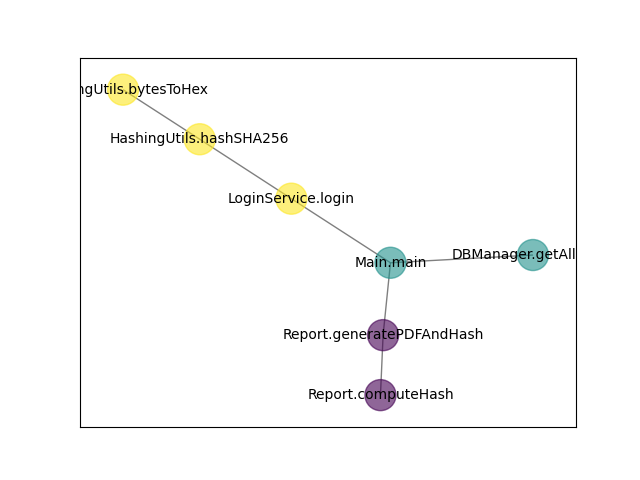
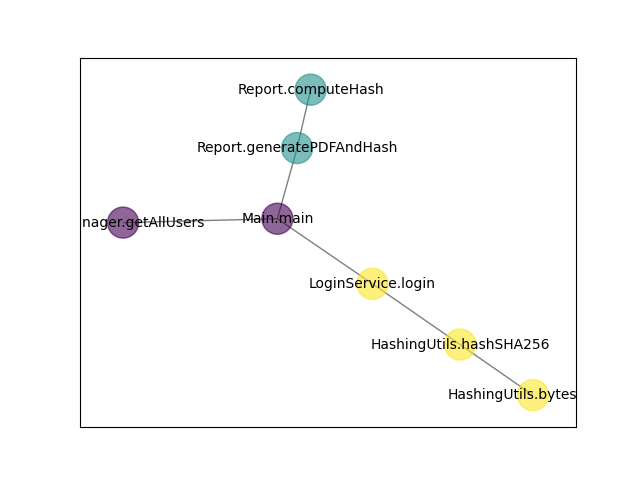
finished product (summaries done), tested on vulnerableapp/

diff --git a/main.py b/main.py
@@ -12,10 +12,11 @@ import networkx as nx
 import tests
 
 from parsing.objects import JavaFile
-from parsing.parsing import extract_classes_and_methods
+from parsing.parsing import extract_classes_and_methods, is_position_within_method
 from clustering.algorithms import FanOutLouvainClustering, ACERLouvainClustering
 from clustering.clustering import convert_clusters_to_partition
 from clustering.majority import create_cluster_matrix, decode_clusterings
+from summarizing.summarizing import summarize_code, summarize_cluster
 
 from utils import encode_java_files_to_json, print_clusters, visualize_community_graph
            
@@ -43,13 +44,13 @@ def exec_pipeline(args):
     print(f"[{dt.now().strftime('%T.%f')[:-3]}] Scanning for vulnerabilities...")
     scan_result = scan(args.dir)
     
-    with open("output_scan.json", "w") as f:
+    with open("out/mobsf_scan.json", "w") as f:
         f.write(json.dumps(scan_result))
         
     print(f"[{dt.now().strftime('%H:%M:%S.%f')[:-3]}] Done.")
     
-    # 2)
-    print(f"[{dt.now().strftime('%H:%M:%S.%f')[:-3]}] Parsing Java files..")
+    # 2a)
+    print(f"[{dt.now().strftime('%H:%M:%S.%f')[:-3]}] Parsing Java files...")
     file_objects = []
     for file in os.listdir(args.dir): # only scans the base directory
         full_path = os.path.join(args.dir, file)
@@ -60,15 +61,40 @@ def exec_pipeline(args):
             
             current_classes = extract_classes_and_methods(java_code)
     
-            file_objects.append(JavaFile(full_path, java_code, current_classes))
+            jfile = JavaFile(full_path, java_code, current_classes)
+            for java_class in current_classes:
+                java_class.parent_file = jfile
+            file_objects.append(jfile)
     
-    with open("output_objects.json", "w") as f:
+    with open("out/parsed_objects.json", "w") as f:
         f.write(encode_java_files_to_json(file_objects))
         
+    # 2b) Flag vulnerable methods
+    vulnerable_methods = []
+    
+    for file in file_objects:
+        for vul_title, vulnerability in scan_result["results"].items():
+            if vulnerability.get("files") is not None:
+                for vulnerable_file in vulnerability["files"]:
+                    
+                    if file.path == vulnerable_file["file_path"]:
+        
+                        for java_class in file.classes:
+                            for method in java_class.methods:
+                                if is_position_within_method(vulnerable_file["match_position"], vulnerable_file["match_lines"], method.position):
+                                    method.is_vulnerable = True
+                                    method.vulnerability = vul_title
+                                    method.vulnerability_metadata = vulnerability.get("metadata")
+                                    method.match_string = vulnerable_file["match_string"]
+                                    
+                                    vulnerable_file["method"] = method # Indexing the method for later use (will be removed before saving the file)
+                                    
+                                    vulnerable_methods.append(method)
+    
     print(f"[{dt.now().strftime('%H:%M:%S.%f')[:-3]}] Done.")
     
     # 3)
-    print(f"[{dt.now().strftime('%H:%M:%S.%f')[:-3]}] Clustering Java files..")
+    print(f"[{dt.now().strftime('%H:%M:%S.%f')[:-3]}] Clustering Java methods...")
     # cluster_fan_out = cluster(file_objects)
     # cluster_fan_out = {k: v for k, v in sorted(cluster_fan_out.items(), key=lambda item: item[1])}
     fan_out = FanOutLouvainClustering()
@@ -87,6 +113,9 @@ def exec_pipeline(args):
     # 4)
     # TODO Check for case if only one algo is registered, do not combine
     # TODO let the option to choose which algo to use for the consensus
+    # Don't forget to assign parent_cluster to each method if only one clustering approach is used.
+    # If consensus is used it is assigning in the decode_clusterings method.
+    print(f"[{dt.now().strftime('%H:%M:%S.%f')[:-3]}] Combining clustering results...")
 
     all_methods = list(fan_out.get_unique_methods().intersection(acer_louvain.get_unique_methods()))        
     
@@ -96,10 +125,10 @@ def exec_pipeline(args):
 
     decoded_clusters = decode_clusterings(pi_star, all_methods)
 
-    for cluster in decoded_clusters:
-        print(f"Cluster with {len(cluster.get_elements())} methods.")
-        for method in cluster.get_elements():
-            print(method)
+    # for cluster in decoded_clusters:
+    #     print(f"Cluster with {len(cluster.get_elements())} methods.")
+    #     for method in cluster.get_elements():
+    #         print(method)
     
     # Visualize the consensus graph
     G = nx.Graph()
@@ -107,10 +136,73 @@ def exec_pipeline(args):
         G.add_node(all_method)
     visualize_community_graph(G, convert_clusters_to_partition(decoded_clusters), "out/consensus_graph.png")
     
+    print(f"[{dt.now().strftime('%H:%M:%S.%f')[:-3]}] Done.")
+    
     # 5)
+    
+    print(f"[{dt.now().strftime('%H:%M:%S.%f')[:-3]}] Summarizing vulnerable methods...")
     openai_client = OpenAI(api_key=args.api_key)
     
+    for vulnerable_method in vulnerable_methods: 
+        vulnerable_method.summary = summarize_code(vulnerable_method.code, openai_client)
+        
+        if vulnerable_method.parent.summary == "":
+            vulnerable_method.parent.summary = summarize_code(vulnerable_method.parent.code, openai_client)
+        
+        if vulnerable_method.parent_cluster.summary == "":
+            vulnerable_method.parent_cluster.summary = summarize_cluster(vulnerable_method.parent_cluster, openai_client)
     
+    print(f"[{dt.now().strftime('%H:%M:%S.%f')[:-3]}] Done.")
+    
+    # 6) 
+    # Add the results to the MobSF scan result 
+    for vul_title, vulnerability in scan_result["results"].items():
+        if vulnerability.get("files") is not None:
+            for vulnerable_file in vulnerability["files"]:
+                if "method" in vulnerable_file:
+                    
+                    vulnerable_file["summaries"] = {}
+                    vulnerable_file["summaries"]["method"] = vulnerable_file["method"].summary
+                    vulnerable_file["summaries"]["class"] = vulnerable_file["method"].parent.summary
+                    vulnerable_file["summaries"]["cluster"] = vulnerable_file["method"].parent_cluster.summary
+                    
+                    del vulnerable_file["method"]
+                    
+    with open("out/mobsf_scan_with_summaries.json", "w") as f:
+        f.write(json.dumps(scan_result))
+    
+    results = []
+    print("===== Result =====")
+    print()
+    for vulnerable_method in vulnerable_methods:
+        
+        current_result = {
+            "file": vulnerable_method.parent.parent_file.path,
+            "line": vulnerable_method.position.start_line,
+            "method": f"{vulnerable_method.parent.name}.{vulnerable_method.name}",
+            "vulnerability": vulnerable_method.vulnerability,
+            "match": vulnerable_method.match_string,
+            "summaries": {
+                "method": vulnerable_method.summary,
+                "class": vulnerable_method.parent.summary,
+                "cluster": vulnerable_method.parent_cluster.summary
+            }
+        }
+        
+        results.append(current_result)
+        
+        print(f"Method: {vulnerable_method.parent.name}.{vulnerable_method.name}")
+        print(f"Vulnerability: {vulnerable_method.vulnerability}")
+        print(f"Match: {vulnerable_method.match_string}")
+        
+        print("Summary")
+        print(f"  Method: {vulnerable_method.summary}")
+        print(f"  Class: {vulnerable_method.parent.summary}")
+        print(f"  Cluster: {vulnerable_method.parent_cluster.summary}")
+        print()
+        
+    with open("out/results.json", "w") as f:
+        f.write(json.dumps({"results": results}))
     
 
 if __name__ == '__main__':

diff --git a/summarizing/summarizing.py b/summarizing/summarizing.py
@@ -30,7 +30,25 @@ def summarize_code(code: str, openai_client, model="gpt-3.5-turbo"):
     This function uses the OpenAI language model to summarize Java code. 
     It sends the code to the model and extracts the summary from the response.
     """
-    pass
+    system_message = """
+You are a professional Java code interpreter. Your role is to summarize code while strictly following the two following main rules:
+1. PRECISENESS: Always be as precise as possible. You must include everything relevant.
+2. CONCISENESS: always keep the summary concise, while not breaking the first rule.
+
+You may be given to interpret entire Java files, classes, or only methods.
+If you are given a file, do not explain the details for each method. The summary should be a high-level overview of the file's purpose and functionality and not a line-by-line or method by method explanation.
+
+Provide a ONE SENTENCE summary of the provided piece of code, keeping in mind that the sentence must tell the reader what the piece of code does overall.
+    """
+    
+    response = openai_client.chat.completions.create(
+        model=model,
+        messages=[
+            {"role": "system", "content": system_message},
+            {"role": "user", "content": code}
+        ]
+    )
+    return response.choices[0].message.content
 
 
 def summarize_cluster(cluster: Cluster, openai_client, model="gpt-3.5-turbo"):
@@ -38,4 +56,29 @@ def summarize_cluster(cluster: Cluster, openai_client, model="gpt-3.5-turbo"):
     This function uses the OpenAI language model to summarize a cluster of Java methods. 
     It sends the code of each file in the cluster to the model and extracts the summary from the response.
     """
-    pass
+    system_message = """
+You are a professional Java code interpreter. Your role is to summarize a cluster of java methods. In other words,
+you must provide a high-level overview of the functionality of the methods in the cluster, and what they acheive in the context of the cluster.
+Keep the following rules in mind:
+1. PRECISENESS: Always be as precise as possible. You must include everything relevant.
+2. CONCISENESS: always keep the summary concise, while not breaking the first rule.
+
+Provide a ONE SENTENCE summary of the cluster, keeping in mind that the sentence must tell the reader what the provided group of methods do.
+    """
+    # TODO also try chain of thoughts approach (give one method after the other and then summarize the cluster)
+    
+    code = ""
+    
+    for method in cluster.get_elements():
+        code += f" ```{method.code}```\n\n"
+    
+    response = openai_client.chat.completions.create(
+        model=model,
+        messages=[
+            {"role": "system", "content": system_message},
+            {"role": "user", "content": code}
+        ]
+    )
+    
+    return response.choices[0].message.content
+    

diff --git a/parsing/objects.py b/parsing/objects.py
@@ -34,13 +34,19 @@ class JavaParameter:
         
         
 class JavaMethod:
-    def __init__(self, parent, name: str, return_type: str, paremeters: list, position: Position, code: str, summary="") -> None:
+    def __init__(self, parent, name: str, return_type: str, paremeters: list, position: Position, code: str, summary="", is_vulnerable=False) -> None:
         self.name = name
         self.return_type = return_type
         self.position = position
         self.code = code
         self.summary = summary
         self.parent = parent
+        self.parent_cluster = None
+        
+        self.is_vulnerable = is_vulnerable
+        self.vulnerability_metadata: dict = None
+        self.vulnerability: str = None
+        self.matched_string: str = ""
         
         self.parameters = []
         for p in paremeters:
@@ -82,15 +88,16 @@ class JavaMethod:
         return hash((self.name, self.return_type, tuple(self.parameters)))
     
 class JavaClass:
-    def __init__(self, name: str, position: Position, code: str, summary="") -> None:
+    def __init__(self, parent_file, name: str, position: Position, code: str, summary="") -> None:
+        self.parent_file = parent_file
         self.name = name
         self.position = position
         self.code = code
         self.summary = summary
         self.methods = []
         
-    def add_new_method(self, name: str, return_type: str, paremeters: list, position: Position, code: str, summary=""):
-        self.methods.append(JavaMethod(self, name, return_type, paremeters, position, code, summary))
+    def add_new_method(self, name: str, return_type: str, paremeters: list, position: Position, code: str, summary="", is_vulnerable=False):
+        self.methods.append(JavaMethod(self, name, return_type, paremeters, position, code, summary, is_vulnerable=is_vulnerable))
         
     def add_method(self, method: JavaMethod):
         if not isinstance(method, JavaMethod):
@@ -98,7 +105,7 @@ class JavaClass:
         
         self.methods.append(method)
             
-    def add_methods(self, methods: list):
+    def add_methods(self, methods: list[JavaMethod]):
         for m in methods:
             self.add_method(m)
             
@@ -144,7 +151,7 @@ class JavaFile:
                 raise ValueError("The class must be an instance of JavaClass")
         
     def add_new_class(self, name, position) -> None:
-        self.classes.append(JavaClass(name, position))
+        self.classes.append(JavaClass(self, name, position))
         
     def add_class(self, class_: JavaClass) -> None:
         if not isinstance(class_, JavaClass):

diff --git a/parsing/parsing.py b/parsing/parsing.py
@@ -104,7 +104,7 @@ def extract_classes_and_methods(java_code: str) -> list[JavaClass]:
             code = "\n".join(code) if code else ""
             pos = Position(node.position.line, end_line, node.position.column, end_col)
                 
-            classes.append(JavaClass(node.name, pos, code))
+            classes.append(JavaClass(None, node.name, pos, code))
             
         elif isinstance(node, javalang.tree.MethodDeclaration):
             current_class = class_stack[-1] if class_stack else None

diff --git a/clustering/majority.py b/clustering/majority.py
@@ -69,6 +69,7 @@ def decode_clusterings(pi_star: np.ndarray, all_methods: list[JavaMethod]) -> li
 
     # Assign each JavaMethod to the appropriate Cluster
     for method_idx, cluster_id in enumerate(pi_star):
+        all_methods[method_idx].parent_cluster = clusters[cluster_id]
         clusters[cluster_id].add_element(all_methods[method_idx])
 
     return list(clusters.values())

diff --git a/clustering/clustering.py b/clustering/clustering.py
@@ -7,6 +7,7 @@ from parsing.objects import JavaMethod
 class Cluster():
     def __init__(self, elements: list[JavaMethod]) -> None:
         self.elements: list[JavaMethod] = []
+        self.summary = ""
         
     def add_element(self, element: JavaMethod) -> None:
         self.elements.append(element)
